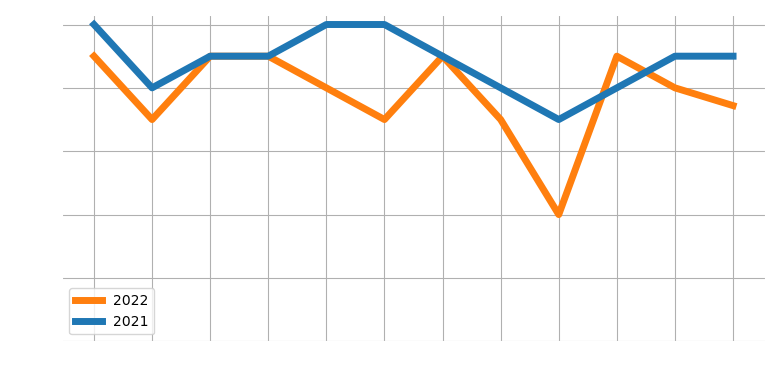
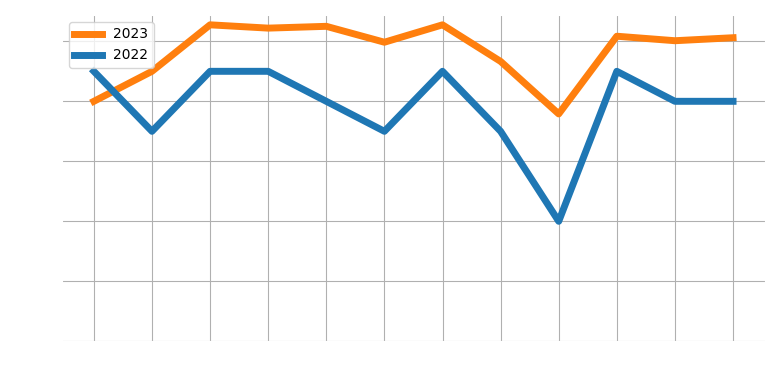
Tot en met feb 2023

Changed region(s): [[0.0923, 0.0579, 0.9538, 0.6079], [0.0923, 0.7237, 0.9846, 0.8974]]

diff --git a/energieverbruik.py b/energieverbruik.py
@@ -40,12 +40,12 @@ VORIG_JAAR = HUIDIG_JAAR - 1
 #
 # INVOEREN GEGEVENS HUIDIGE JAAR
 #
-MAAND = Month.jan
-DAG_VAN_MAAND = 2
-DAGEN_IN_MAAND = 31
-VERBRUIK_GAS = 8
-VERBRUIK_ELEKTRICITEIT = 7
-VERBRUIK_WATER = 1
+MAAND = Month.feb
+DAG_VAN_MAAND = 28
+DAGEN_IN_MAAND = 28
+VERBRUIK_GAS = 162
+VERBRUIK_ELEKTRICITEIT = 113
+VERBRUIK_WATER = 9
 PRIJS_GAS = 1.63326
 PRIJS_ELEKTRICITEIT = 0.53264
 PRIJS_WATER = 1.021
@@ -58,7 +58,9 @@ df = pd.read_csv('energiedata.csv')
 
 totVerbrGasVrgJr = df['vrbr_gas_VrgJr']
 totVerbrEleVrgJr = df['vrbr_ele_VrgJr']
+totVerbrEleVrgJr2 = df['vrbr_ele_VrgJr2']
 totVerbrWatVrgJr = df['vrbr_wat_VrgJr']
+totVerbrWatVrgJr2 = df['vrbr_wat_VrgJr2']
 
 #
 # BEREKENINGEN GAS
@@ -106,6 +108,10 @@ sumVerbrEleVrgJr = 0
 for i in totVerbrEleVrgJr:
     sumVerbrEleVrgJr += i
 percVerbrEleVrgJr = (totVerbrEleVrgJr / sumVerbrEleVrgJr)
+sumVerbrEleVrgJr2 = 0
+for i in totVerbrEleVrgJr2:
+    sumVerbrEleVrgJr2 += i
+percVerbrEleVrgJr2 = (totVerbrEleVrgJr2 / sumVerbrEleVrgJr)
 
 #
 # BEREKENINGEN WATER
@@ -118,6 +124,10 @@ sumVerbrWatVrgJr = 0
 for i in totVerbrWatVrgJr:
     sumVerbrWatVrgJr += i
 percVerbrWatVrgJr = (totVerbrWatVrgJr / sumVerbrWatVrgJr)
+sumVerbrWatVrgJr2 = 0
+for i in totVerbrWatVrgJr2:
+    sumVerbrWatVrgJr2 += i
+percVerbrWatVrgJr2 = (totVerbrWatVrgJr2 / sumVerbrWatVrgJr2)
 
 #
 # BEREKENINGEN SCHATTING VERBRUIK
@@ -128,10 +138,10 @@ percVerbrWatVrgJr = (totVerbrWatVrgJr / sumVerbrWatVrgJr)
 combiVerbrGas = ((percGraaddagen + percVerbrGasVrgJr_corr) / 2)
 
 # Combineer gemiddeld elektriciteit en verbruik VrgJr als basis voor verwachting
-combiVerbrEle = ((gemEle + percVerbrEleVrgJr) / 2)
+combiVerbrEle = ((gemEle + percVerbrEleVrgJr + percVerbrEleVrgJr2) / 3)
 
 # Combineer gemiddeld waterverbruik VrgJr als basis voor verwachting
-combiVerbrWat = ((gemWat + percVerbrWatVrgJr) /2)
+combiVerbrWat = ((gemWat + percVerbrWatVrgJr + percVerbrWatVrgJr2) / 3)
 
 percMnd = DAG_VAN_MAAND / DAGEN_IN_MAAND
 verbrGasMnd = (VERBRUIK_GAS / percMnd) - vastGasMnd
@@ -169,7 +179,7 @@ else:
         verbrEleHdgJr += schatVerbrEleHdgJr[i]
         schatVerbrWatHdgJr[i] = df['vrbr_wat_HdgJr'][i]
         verbrWatHdgJr += schatVerbrWatHdgJr[i]
-    gasMndnNJr /= MAAND-1
+    gasMndnNJr /= (MAAND-1 + 1)
     for i in range(MAAND, 12):
         if i == MAAND:
             schatVerbrGasHdgJr[i] = ((verbrGasMnd / combiVerbrGas[MAAND])
